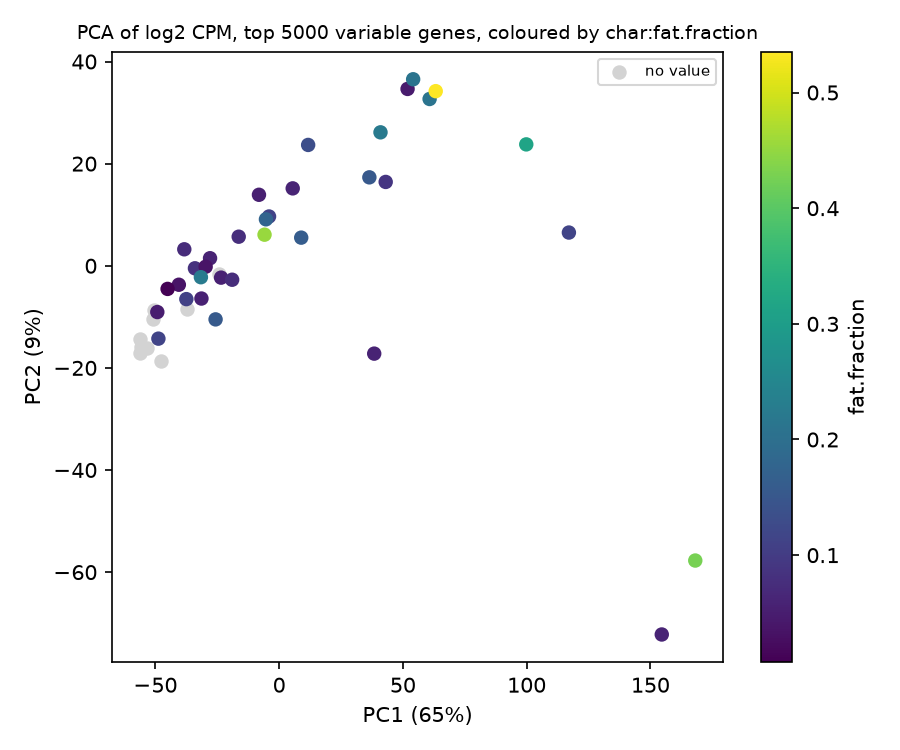
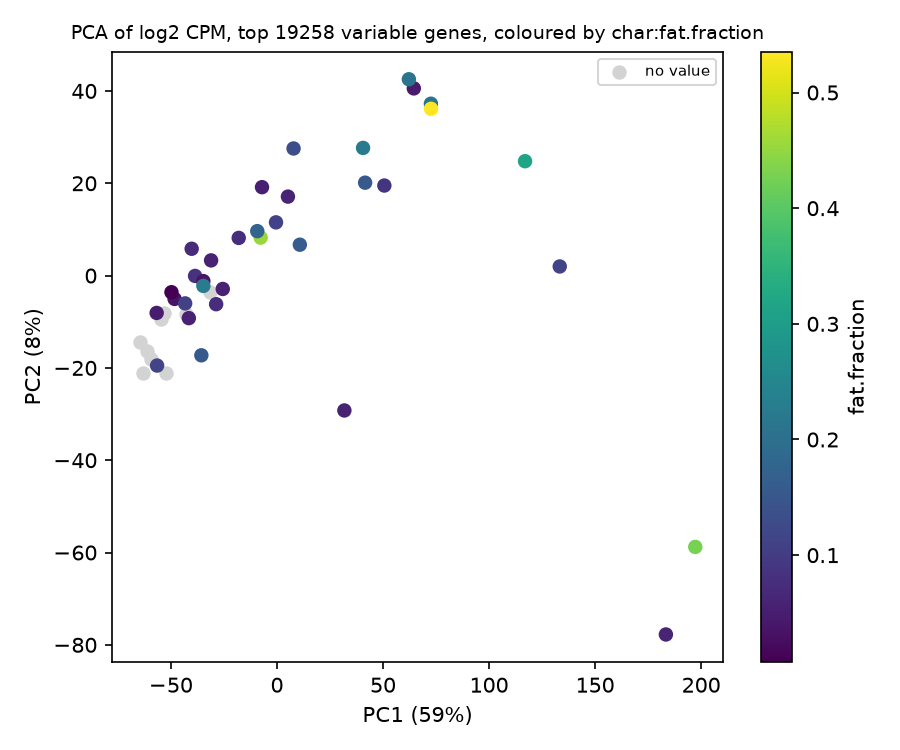
No feature selection

diff --git a/practical/scripts/step2_qc_exploration.py b/practical/scripts/step2_qc_exploration.py
@@ -112,7 +112,7 @@ def main() -> None:
     # log2 CPM and PCA on the most variable genes.
     cpm = filtered / filtered.sum(axis=0) * 1e6
     logcpm = np.log2(cpm + 1)
-    n_top = 5000  # TODO(student): does the choice of n_top change the picture?
+    n_top = 19258  # TODO(student): does the choice of n_top change the picture?
     top = logcpm.var(axis=1).sort_values(ascending=False).index[:n_top]
     x = logcpm.loc[top].T
     x = x - x.mean(axis=0)
